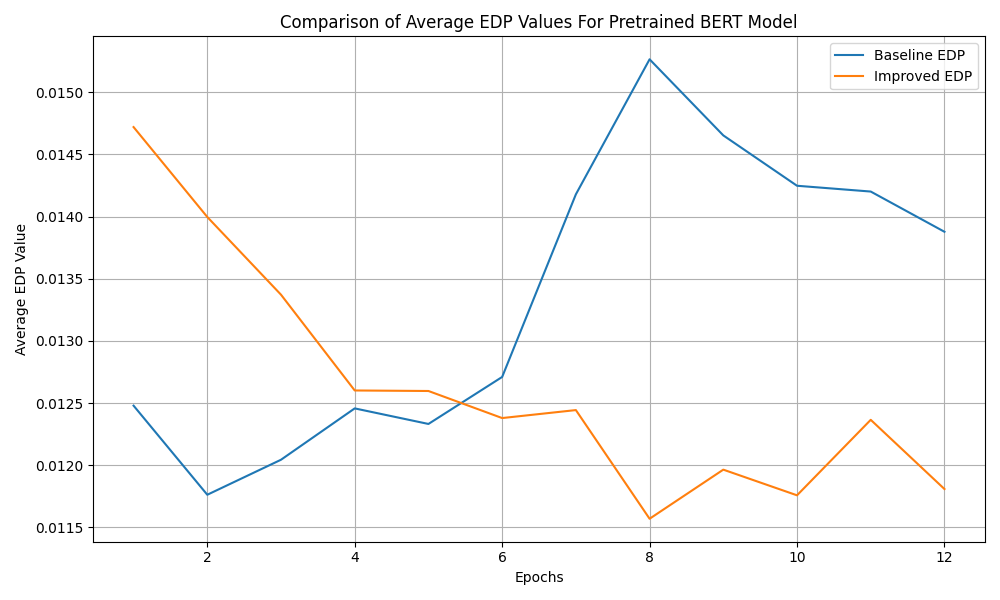
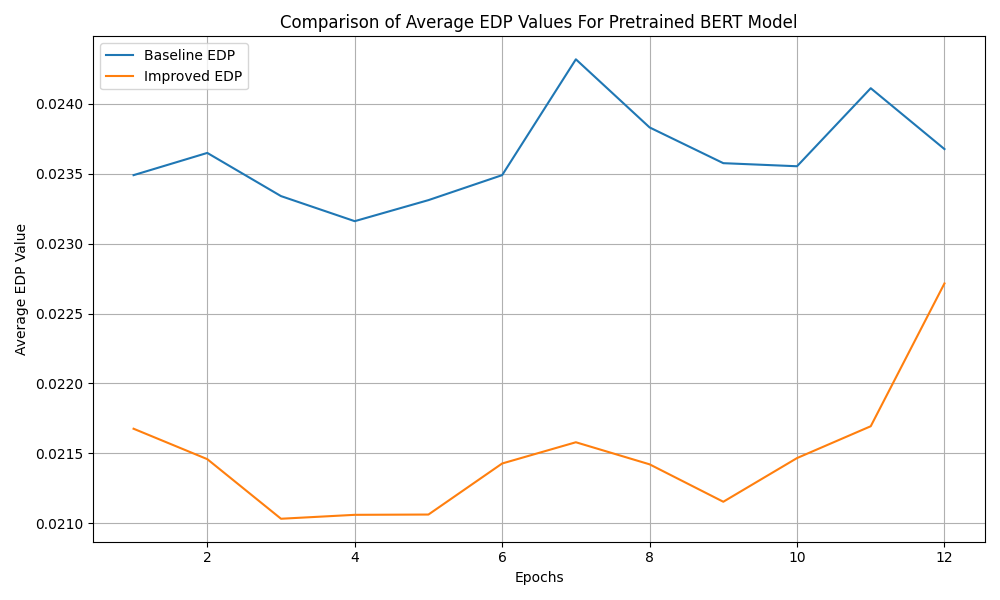
Modified for dataset used

diff --git a/t5_model/plot_t5_results.py b/t5_model/plot_t5_results.py
@@ -1,19 +1,11 @@
 from t5_baseline import t5_baseline
 from t5_improved_edp import t5_improved_edp
 from util import make_plot
-
 from datasets import load_dataset
 
-
 def plot_t5_results():
-    # test_dataset = [
-    #     "Hello, my name is ChatGPT. How can I assist you today?",
-    #     "What is the capital of France?",
-    #     "Explain the theory of relativity.",
-    #     "How do I bake a chocolate cake?",
-    #     "What are the benefits of machine learning?"
-    # ]
-    test_dataset = load_dataset("ag_news")
+    dataset = load_dataset('ag_news', split='test[:20]') 
+    test_dataset = [item['text'] for item in dataset]
 
     average_baseline_duration, average_layer_durations, average_edp_values = t5_baseline(test_dataset)
     average_layer_durations_improved, average_edp_values_improved = t5_improved_edp(test_dataset)

diff --git a/bert_model/plot_bert_results.py b/bert_model/plot_bert_results.py
@@ -14,7 +14,8 @@ def plot_bert_results():
     #     "What are the benefits of machine learning?"
     # ]
 
-    test_dataset = load_dataset('ag_news')
+    dataset = load_dataset('ag_news', split='test[:20]')
+    test_dataset = [item['text'] for item in dataset]
 
     average_baseline_duration, average_layer_durations, average_edp_values = bert_baseline(test_dataset)
     average_layer_durations_improved, average_edp_values_improved = bert_improved_edp(test_dataset)
